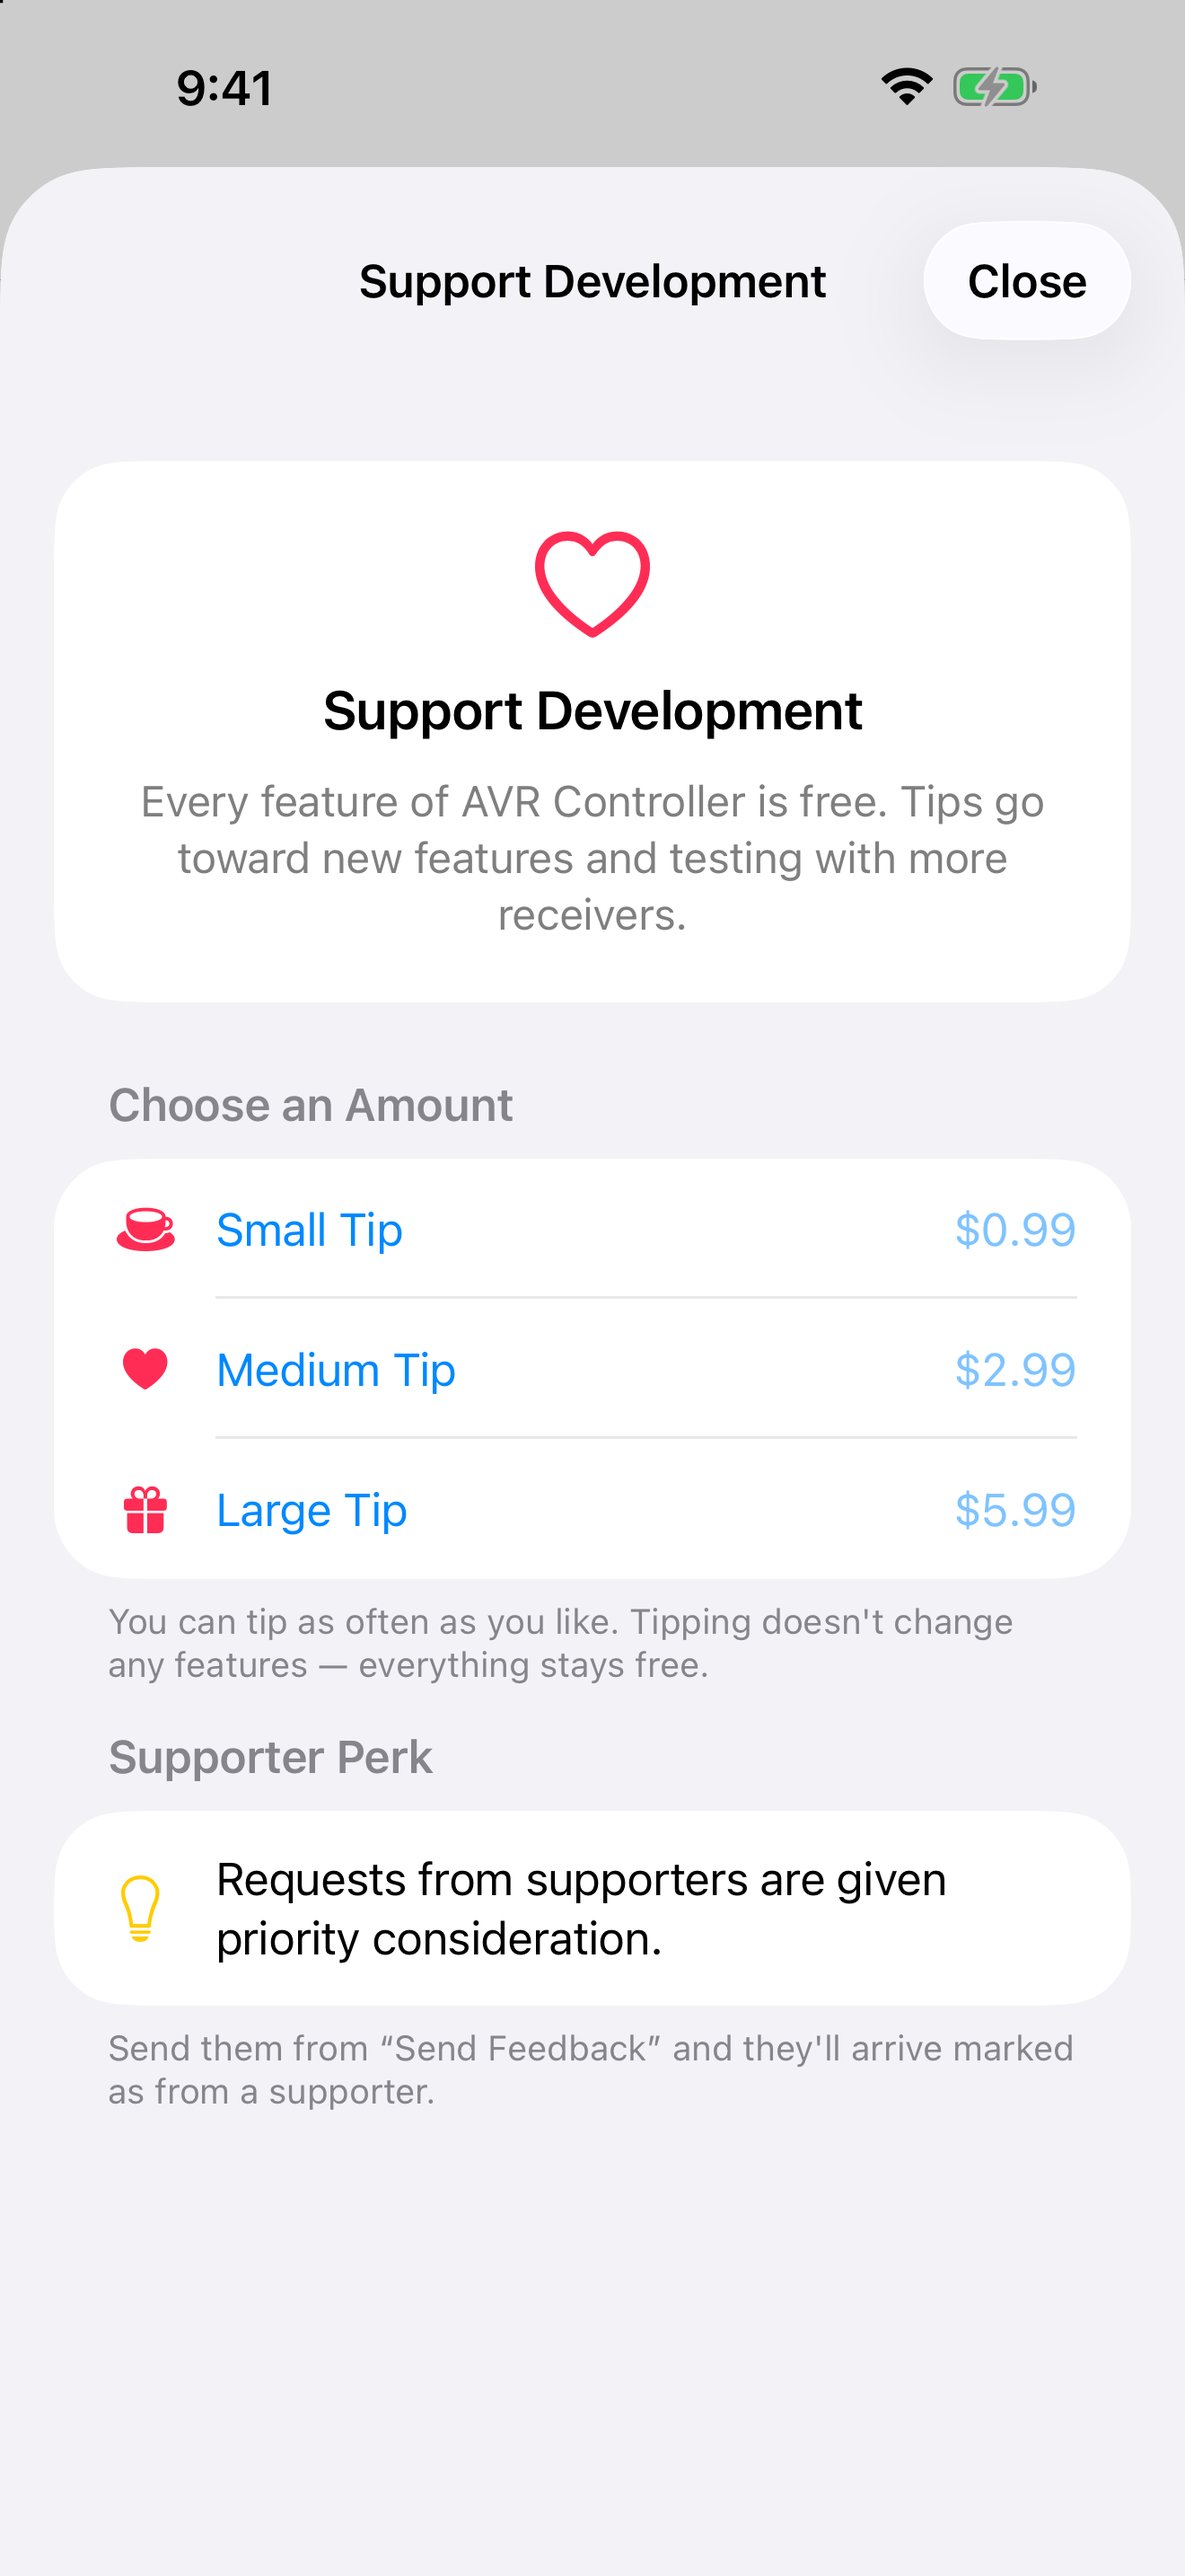
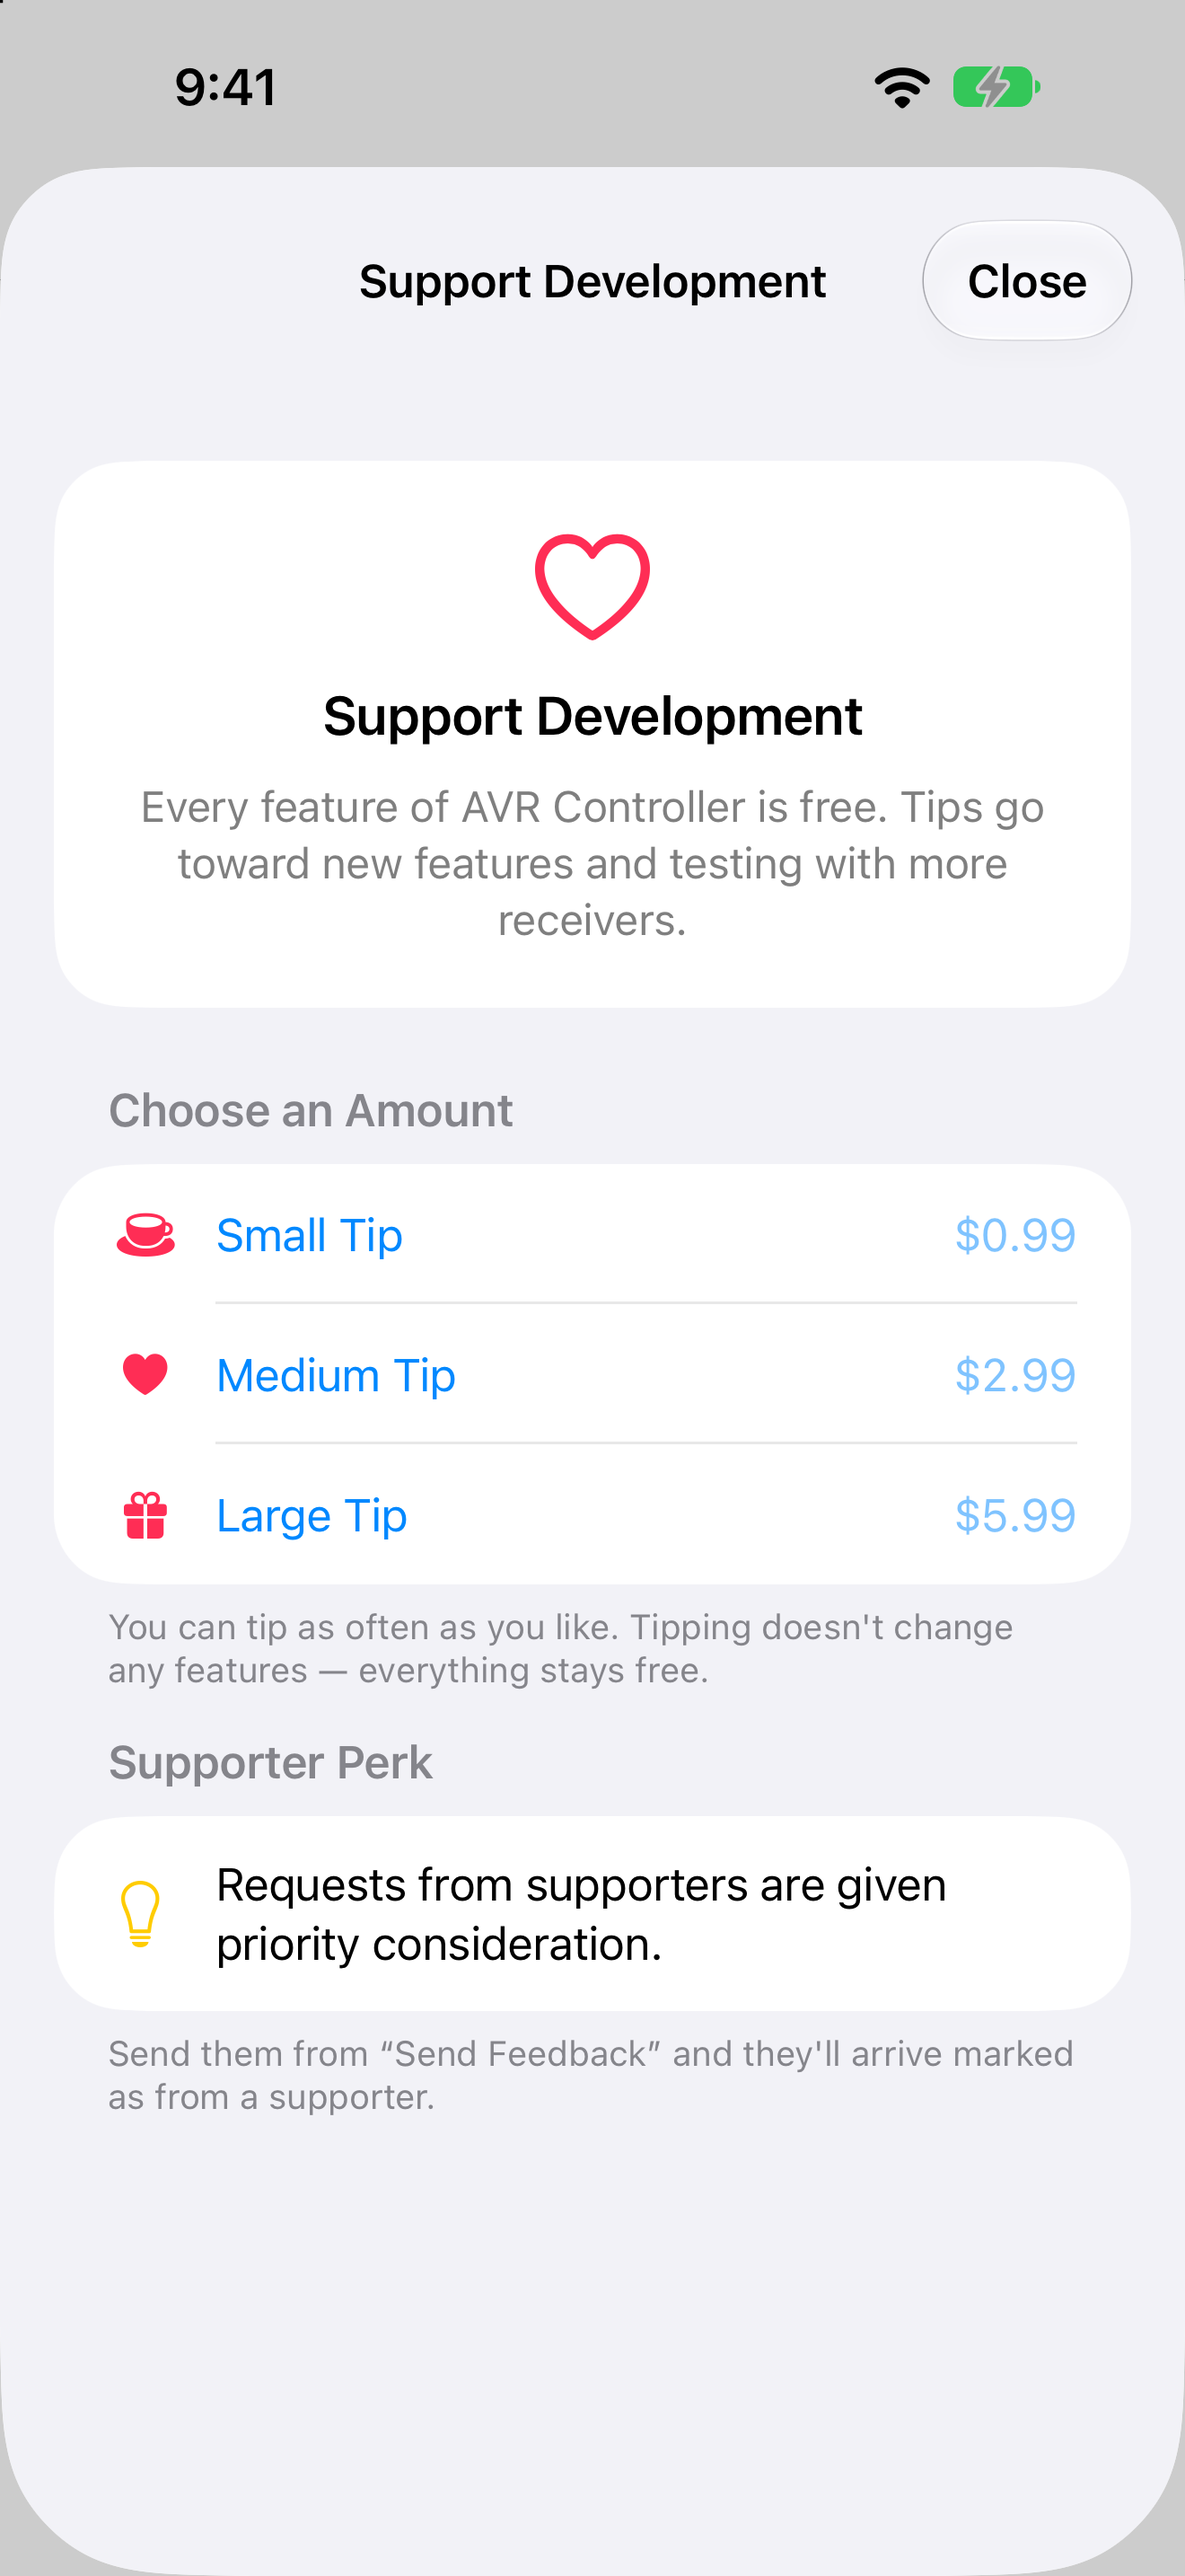
Capture App Store screenshots of the volume dial
The App Store listing is plain dark-mode simulator shots of a connected
dashboard. To show the dial the same way without an AVR, a DEBUG-only
-uiDemo launch argument (after upgraded-guacamole's -uiDemo) fills in a
fixed connected state (AVR-X3800H, Blu-ray, Movie, -32.5 dB) and skips
auto-connect and the connection-time dialogs. It never touches the
network.

scripts/capture-support-screenshot.sh becomes capture-screenshots.sh
and takes both shots: "dial" (dark, App Store) and "support" (light,
App Review). It now uses a dedicated simulator that it creates and
wipes, so a receiver saved on the everyday debug simulator can't make
it connect to the real AVR. It also waits after switching appearance,
which delayed launches enough to capture the launch screen.

The listing's Japanese shots are 6.3" (iPhone 17 Pro) and the English
ones 6.9" (iPhone 17 Pro Max), so the dial is captured at both sizes.

diff --git a/DenonControllerMobile/Views/ContentView.swift b/DenonControllerMobile/Views/ContentView.swift
@@ -54,8 +54,12 @@ struct ContentView: View {
                     isSplashScreenActive = false
                 }
             }
+            #if DEBUG
+            // App Store 用スクリーンショット撮影用: 接続中の画面を再現する（scripts/capture-screenshots.sh）
+            if MainViewModel.isScreenshotDemo { vm.applyScreenshotDemoState() }
+            #endif
             // スクリーンショット撮影用: スプラッシュが消えたら「開発を応援する」を開く
-            // （DEBUG ビルドの起動引数 -uiDemoSupport。scripts/capture-support-screenshot.sh）
+            // （DEBUG ビルドの起動引数 -uiDemoSupport。scripts/capture-screenshots.sh）
             if SupportView.isScreenshotDemo {
                 DispatchQueue.main.asyncAfter(deadline: .now() + 2.2) {
                     showingSupportSheet = true
@@ -64,6 +68,9 @@ struct ContentView: View {
         }
         .onChange(of: vm.connectionStatus) { _, status in
             guard status == .connected else { return }
+            #if DEBUG
+            if MainViewModel.isScreenshotDemo { return }   // 撮影中は接続時のダイアログを出さない
+            #endif
             if !hasShownVolumeDialIntroduction {
                 let delay = isSplashScreenActive ? 1.7 : 0.2
                 DispatchQueue.main.asyncAfter(deadline: .now() + delay) {
@@ -204,6 +211,9 @@ struct ContentView: View {
     }
 
     private func autoConnect() {
+        #if DEBUG
+        if MainViewModel.isScreenshotDemo { return }   // 撮影中は実機の AVR に接続しない
+        #endif
         let host = UserDefaults.standard.string(forKey: "defaultHost") ?? ""
         let auto = UserDefaults.standard.bool(forKey: "autoConnect")
         if auto && !host.isEmpty && !vm.connectionStatus.isConnected {

diff --git a/DenonController/DenonController/ViewModels/MainViewModel.swift b/DenonController/DenonController/ViewModels/MainViewModel.swift
@@ -843,4 +843,29 @@ final class MainViewModel {
             if noticeToken == token { transientNoticeKey = nil }
         }
     }
+
+    #if DEBUG
+    // MARK: - Screenshot demo
+
+    /// App Store 用スクリーンショット撮影用（DEBUG ビルドで起動引数 `-uiDemo`）。
+    /// AVR が無くても接続中のダッシュボードを表示する。通信は一切しない。
+    /// 参照: upgraded-guacamole の `-uiDemo`。撮影手順は `scripts/capture-screenshots.sh`
+    static var isScreenshotDemo: Bool {
+        ProcessInfo.processInfo.arguments.contains("-uiDemo")
+    }
+
+    /// 接続中の見た目にするための固定の状態を入れる
+    func applyScreenshotDemoState() {
+        var info = DeviceInfo()
+        info.modelName = "AVR-X3800H"
+        avr.deviceInfo = info
+        avr.isConnected = true
+        avr.isPoweredOn = true
+        avr.isMuted = false
+        avr.volumeDB = -32.5
+        avr.input = .bluray
+        avr.surroundMode = .movie
+        connectionStatus = .connected
+    }
+    #endif
 }

diff --git a/DenonControllerMobile/Views/SupportView.swift b/DenonControllerMobile/Views/SupportView.swift
@@ -17,7 +17,7 @@ struct SupportView: View {
 
     /// スクリーンショット撮影用（DEBUG ビルドで起動引数 `-uiDemoSupport`）。
     /// simctl から起動すると Xcode の StoreKit 設定（Products.storekit）が効かず商品を読み込めないため、
-    /// StoreKit を使わずに 3 段を並べる。撮影手順は `scripts/capture-support-screenshot.sh`。
+    /// StoreKit を使わずに 3 段を並べる。撮影手順は `scripts/capture-screenshots.sh`。
     /// 参照: upgraded-guacamole の `-uiDemo`
     static var isScreenshotDemo: Bool {
         #if DEBUG

diff --git a/docs/AppStore/release-1.1.0.md b/docs/AppStore/release-1.1.0.md
@@ -44,7 +44,7 @@
 - [ ] **審査に関する情報**: 購入画面のスクリーンショットを 1 枚（3 つとも同じでよい）。撮影済みの
   `marketing/iap-review/en/support.png`（英語）か `marketing/iap-review/ja/support.png`（日本語）を使う。
   審査メモは「購入しても機能は解放されない投げ銭です」
-  - 撮り直すときは `scripts/capture-support-screenshot.sh`。DEBUG ビルド限定の起動引数
+  - 撮り直すときは `scripts/capture-screenshots.sh`。DEBUG ビルド限定の起動引数
     `-uiDemoSupport` で購入画面を直接開き、StoreKit を使わずに 3 段を並べる（日本語は予定価格の
     ¥160 / ¥480 / ¥980、英語は `Products.storekit` の価格）。価格を変えたら `SupportView.demoPrice` も直す
 - [ ] 3 つともステータスが**「送信準備完了」**になったことを確認
@@ -96,7 +96,14 @@ App Store タブの「＋」→ iOS のバージョン **1.1.0** を作成する
 
 ### 4-2. スクリーンショット
 
-- [ ] （任意・推奨）音量ダイアルは見た目で伝わる変更なので、1 枚追加する
+- [ ] （任意・推奨）音量ダイアルは見た目で伝わる変更なので、1 枚追加する。撮影済みの画像を使う。
+  既存のストア画像と同じサイズ枠に並べること（日本語は iPhone 17 Pro の 6.3 インチ、英語は
+  iPhone 17 Pro Max の 6.9 インチで撮られている）
+  - 日本語: `marketing/appstore-screenshots/ja/dial-6.3.png`（6.9 インチ枠用は `dial-6.9.png`）
+  - 英語: `marketing/appstore-screenshots/en/dial-6.9.png`（6.3 インチ枠用は `dial-6.3.png`）
+  - 既存の画像に合わせて、ダークモードの素の画面。AVR に接続した状態は DEBUG ビルド限定の起動引数
+    `-uiDemo` で再現している（実機には接続しない）。撮り直すときは `scripts/capture-screenshots.sh`、
+    6.3 インチは `SIM_NAME="AVR Screenshots 6.3" DEVICE_TYPE="iPhone 17 Pro" scripts/capture-screenshots.sh`
 
 ### 4-3. ビルド
 
